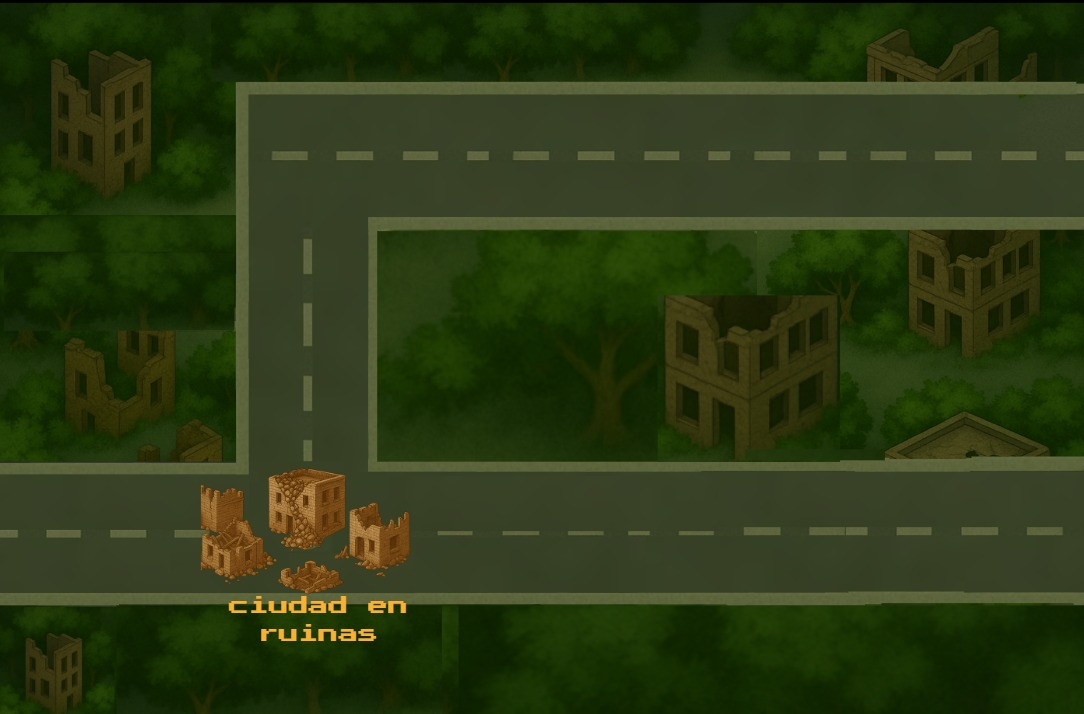
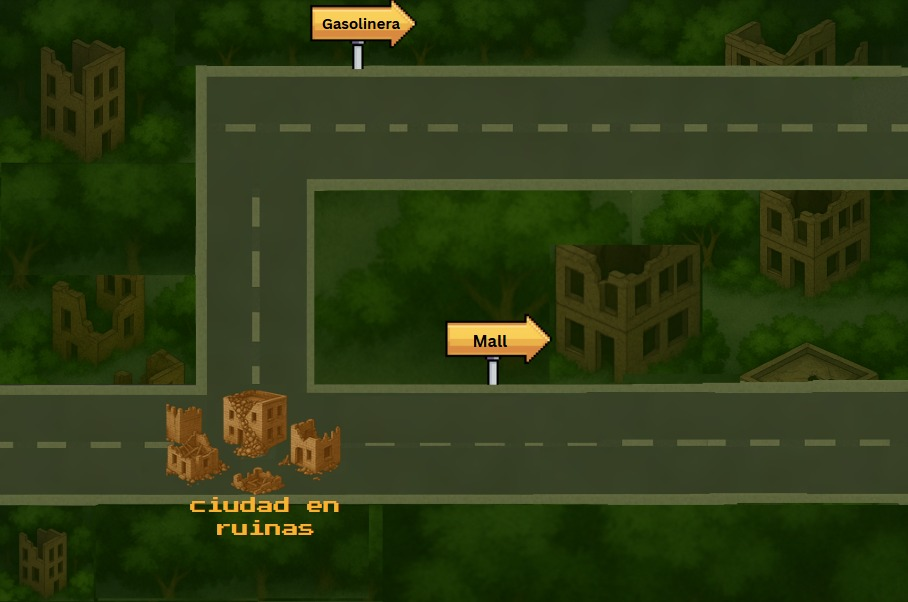
IMAGENES CAMBIADAS, Y FALTA AGREGAR LOS CAMBIOS DE RUTAS

diff --git a/escenabase.cpp b/escenabase.cpp
@@ -13,6 +13,27 @@ EscenaBase::EscenaBase(QWidget* parent)
 
     inventarioWidget=new InventarioWidget(Inventario::getInstance());
 
+    //barra de vida contenedor
+    barraVidaLabel = new QLabel(this);
+    barraVidaLabel->setStyleSheet("background-color: #333333; border: 2px solid black; border-radius: 5px; padding: 0px;");
+    barraVidaLabel->setGeometry(10, 90, 200, 30);
+    barraVidaLabel->show();
+
+    // 2⃣ Barra rellena (acortable)
+    barraVidaInterna = new QWidget(barraVidaLabel);
+    barraVidaInterna->setStyleSheet("background-color: green; border-radius: 3px;");
+    barraVidaInterna->setGeometry(0, 0, 200, 30);
+    barraVidaInterna->show();
+
+    // 3⃣ Texto encima
+    barraVidaTexto = new QLabel(barraVidaLabel);
+    barraVidaTexto->setAlignment(Qt::AlignCenter);
+    barraVidaTexto->setStyleSheet("color: white; font-weight: bold; font-size: 14px; background: transparent;");
+    barraVidaTexto->setGeometry(0, 0, 200, 30);
+    barraVidaTexto->show();
+    ActualizarBarraVida();
+    barraVidaLabel->raise();
+
 }
 
 EscenaBase::EscenaBase(personaje *jugadorExistente, QWidget *parent):QWidget(parent),
@@ -25,6 +46,28 @@ EscenaBase::EscenaBase(personaje *jugadorExistente, QWidget *parent):QWidget(par
 {
 
     inventarioWidget=new InventarioWidget(Inventario::getInstance());
+    //barra de vida contenedor
+    barraVidaLabel = new QLabel(this);
+    barraVidaLabel->setStyleSheet("background-color: #333333; border: 2px solid black; border-radius: 5px; padding: 0px;");
+    barraVidaLabel->setGeometry(10, 90, 200, 30);
+    barraVidaLabel->show();
+
+    // 2⃣ Barra rellena (acortable)
+    barraVidaInterna = new QWidget(barraVidaLabel);
+    barraVidaInterna->setStyleSheet("background-color: green; border-radius: 3px;");
+    barraVidaInterna->setGeometry(0, 0, 200, 30);
+    barraVidaInterna->show();
+
+    // 3⃣ Texto encima
+    barraVidaTexto = new QLabel(barraVidaLabel);
+    barraVidaTexto->setAlignment(Qt::AlignCenter);
+    barraVidaTexto->setStyleSheet("color: white; font-weight: bold; font-size: 14px; background: transparent;");
+    barraVidaTexto->setGeometry(0, 0, 200, 30);
+    barraVidaTexto->show();
+
+    ActualizarBarraVida();
+    barraVidaLabel->raise();
+
 
 }
 
@@ -92,6 +135,7 @@ void EscenaBase::Movimientos() {
             jugador->DetenerAnimacion();
             jugador->SetAnimacion(":/imagenes/assets/protagonista/Idle.png", 7);
         }
+        ActualizarBarraVida();
         onMovimientoUpdate();
     });
 
@@ -188,5 +232,86 @@ void EscenaBase::ResetearMovimiento()
         jugador->DetenerAnimacion();
         jugador->SetAnimacion(":/imagenes/assets/protagonista/Idle.png",7);
     }
+
+    ActualizarBarraVida();
+}
+
+void EscenaBase::ActualizarBarraVida()
+{
+
+    if(!jugador)return;
+
+    int vidaActual=jugador->getVidas();
+    int vidaMaxima=30;//valor maximo de vida
+
+    //con estas condicionales se asegura los limites
+    if(vidaActual>vidaMaxima)vidaActual=vidaMaxima;
+    if(vidaActual<0)vidaActual=0;
+
+    //aqui se calcula el porcentaje
+    float porcentaje=static_cast<float>(vidaActual)/vidaMaxima;
+    int anchoTotal=barraVidaLabel->contentsRect().width();
+    int altoTotal=barraVidaLabel->contentsRect().height();
+
+    int anchoBarra=static_cast<int>(porcentaje*anchoTotal);
+
+    QString colorBarra;
+    if(vidaActual>=18)
+    {
+
+        colorBarra="green";
+
+    }else if(vidaActual>=13){
+
+        colorBarra="orange";
+
+    }else{
+
+        colorBarra="red";
+
+    }
+
+    barraVidaInterna->setStyleSheet(QString("background-color: %1; border-radius: 3px;").arg(colorBarra));
+    barraVidaInterna->setGeometry(0,0,anchoBarra,altoTotal);
+
+
+    // // Estilo de la barra
+    // barraVidaLabel->setStyleSheet(QString(
+    //                                   "background-color: %1; "
+    //                                   "color: white; "
+    //                                   "font-weight: bold; "
+    //                                   "font-size: 14px; "
+    //                                   "padding: 5px; "
+    //                                   "border: 2px solid black; "
+    //                                   "border-radius: 5px; "
+    //                                   "text-align: center;")
+    //                                   .arg(colorBarra));
+
+
+    //aqui se hace el texto de la barra
+    QString texto = QString("VIDA: %1 / %2").arg(vidaActual).arg(vidaMaxima);
+    barraVidaTexto->setText(texto);
+
+    barraVidaLabel->raise();
+
+    //CON ESTO SE CURA 5 DE VIDA
+    // int nuevaVida = jugador->getVidas() + 5;
+    // if (nuevaVida > 30) nuevaVida = 30;
+    // jugador->setVidas(nuevaVida);
+    // actualizarBarraVida();
+
+
+    //SE CURA 10 DE VIDA
+    // int nuevaVida = jugador->getVidas() + 10;
+    // if (nuevaVida > 30) nuevaVida = 30;
+    // jugador->setVidas(nuevaVida);
+    // actualizarBarraVida();
+
+
+    //LE RESTAN 7 DE VIDA
+    // int nuevaVida = jugador->getVidas() - 7;
+    // if (nuevaVida < 0) nuevaVida = 0;
+    // jugador->setVidas(nuevaVida);
+    // actualizarBarraVida();
 
 }

diff --git a/caminos.cpp b/caminos.cpp
@@ -65,6 +65,10 @@ void Caminos::configurarObstaculos()
        obstaculos.append(QRect(430, 220, 400, 170)); //PARTE MEDIA
        obstaculos.append(QRect(18, 600, 1000, 30)); //PARTE INFERIOR
 
+    }else if(rutaActual==3){
+
+        obstaculos.clear();//AQUI AGREGAR LOS OBSTACULOS DE LA RUTA 3
+
     }
 }
 
@@ -88,29 +92,46 @@ void Caminos::posicionarJugadorEnCalleRuta2()
 
 }
 
+void Caminos::posicionarJugadorEnCalleRuta3()
+{
+
+    int posX=35;
+    int posY=290;
+
+    jugador->move(posX,posY);
+
+}
+
 void Caminos::cambiarRuta(int nuevaRuta)
 {
     rutaActual = nuevaRuta;
 
     QString rutaImagen;
 
-    if (rutaActual == 1)
+    if(rutaActual==1)
     {
-        rutaImagen = ":/imagenes/assets/mapas/RUTA_1.jpg";
-    }
-    else if (rutaActual == 2)
-    {
-        rutaImagen = ":/imagenes/assets/mapas/RUTA_2.jpg";
+        rutaImagen=":/imagenes/assets/mapas/RUTA_1.jpg";
+
+    }else if(rutaActual==2){
+
+        rutaImagen=":/imagenes/assets/mapas/RUTA_2.jpg";
+
+    }else if(rutaActual==3){
+
+        rutaImagen=":/imagenes/assets/mapas/RUTA_3.jpg";
+
     }
 
     QPixmap fondoPixmap(rutaImagen);
-    if (fondoPixmap.isNull())
+    if(fondoPixmap.isNull())
     {
+
         qDebug() << "Error al cargar la imagen de la ruta:" << rutaImagen;
-    }
-    else
-    {
+
+    }else{
+
         fondoLabel->setPixmap(fondoPixmap.scaled(this->size(), Qt::KeepAspectRatioByExpanding));
+
     }
 
     if(jugador)
@@ -121,13 +142,12 @@ void Caminos::cambiarRuta(int nuevaRuta)
 
     }
 
-    //aqui llamaar funcion de configurar otro obstaculo
+
 }
 
 void Caminos::onMovimientoUpdate()
 {
     if (!jugador) return;
-
     QRect rectJugador = jugador->geometry();
 
     // aqui Cambiar a RUTA_2 cuando el jugador llegue al final de la carretera de arriba (borde derecho)
@@ -153,18 +173,24 @@ void Caminos::onMovimientoUpdate()
         return;
     }
 
-    //aqui ingresa a Gasolinera solo para que existan dos mapas para el avance
-    /*
-    if (rutaActual == 2 && rectJugador.right() >= width() - 50 && rectJugador.top() <= 200)
+    //CAMBIAR A RUTA_3 cuando el jugador toque borde izquierdo de RUTA_2
+                            //borde derecho             top exacto              buttom exacto
+    if(rutaActual==2&&rectJugador.right()>=width()-30&&rectJugador.top()>=46&&rectJugador.bottom()<=173)
     {
-        qDebug() << "Cambiando de nivel...";
-        jugador->move(100, height() - jugador->height() - 120);
-        Gasolinera* gaso = new Gasolinera();
-        gaso->show();
-        this->close();
+
+        obstaculos.clear();
+        cambiarRuta(3);
+        configurarObstaculos();
+
+        posicionarJugadorEnCalleRuta3();
+
+        qDebug() << "Cambiando a RUTA_3...";
 
         return;
-    }*/
+
+    }
+
+
 
     //CON ESTO REGRESA AL LOBBY (zona de la puerta en RUTA_1)
     if (rutaActual == 1 && !regresandoAlLobby)
@@ -207,6 +233,26 @@ void Caminos::onMovimientoUpdate()
 
     if (rutaActual == 2)
     {
+        //DEBUG PARA SABER COLOCAR EL CAMBIO DE RUTA
+        qDebug() << "Jugador en RUTA_2: LEFT =" << rectJugador.left()
+        << " TOP =" << rectJugador.top()
+        << " RIGHT =" << rectJugador.right()
+        << " BOTTOM =" << rectJugador.bottom();
+
+        // Intento de cambio a RUTA_3 (ajusta esta zona cuando veas las coords)
+        if (rectJugador.left() <= 30 && rectJugador.top() >= 50 && rectJugador.bottom() <= 150)
+        {
+            obstaculos.clear();
+            cambiarRuta(3);
+            configurarObstaculos();
+
+            posicionarJugadorEnCalleRuta3();
+
+            qDebug() << "Cambiando a RUTA_3...";
+
+            return;
+        }
+
         if (!labelPresionarT->isVisible())
         {
             // Lo coloco fijo debajo del texto

diff --git a/lobby.cpp b/lobby.cpp
@@ -44,6 +44,8 @@ lobby::lobby(personaje* jugadorExistente, QWidget* parent)
     };
     actualizarUI();
 
+    barraVidaLabel->raise();
+
     // Label para el hint de interaccion con puerta
     labelPresionarR = new QLabel("PRESIONE R PARA EXPLORAR", this);
     labelPresionarR->setStyleSheet("background: rgba(0,0,0,180); color: white; padding: 5px; border-radius: 5px;");
@@ -118,6 +120,9 @@ void lobby::configurarObstaculos()
 
 void lobby::onMovimientoUpdate()
 {
+
+    ActualizarBarraVida();
+
     QRect rectJugador = jugador->geometry();
     bool hayNpcCerca = false;
     npcCercano = nullptr;

diff --git a/mapa.cpp b/mapa.cpp
@@ -17,7 +17,7 @@ Mapa::Mapa(QWidget* parent) : QWidget(parent), jugador(nullptr) {
     this->setWindowTitle("Mapa - Last hope");
 
     // Cargar imagen de fondo
-    QPixmap fondoPixmap(":/imagenes/assets/mapas/Mapa.jpeg");
+    QPixmap fondoPixmap(":/imagenes/assets/mapas/Mapa.jpg");
     if(fondoPixmap.isNull()) {
         qDebug() << "Error al cargar imagen desde assets/mapas/Mapa.png";
     } else {

diff --git a/escenabase.h b/escenabase.h
@@ -33,6 +33,12 @@ protected:
     virtual void configurarNPCs() {}
     virtual void onMovimientoUpdate() {}
 
+    //aqui para la barra de vida
+    QLabel*barraVidaLabel;
+    QWidget* barraVidaInterna;
+    QLabel* barraVidaTexto;
+    void ActualizarBarraVida();
+
 public:
     explicit EscenaBase(QWidget* parent = nullptr);
     explicit EscenaBase(personaje*jugador,QWidget*parent=nullptr);

diff --git a/personaje.cpp b/personaje.cpp
@@ -2,7 +2,7 @@
 #include<QDebug>
 
 personaje::personaje(QWidget*parent):QLabel(parent),frameActual(0),velocidadMovimiento(10),miradoDerecha(true),ultimaDireccionDerecha(true),
-    vida(3),energia(10),municiones(20)
+    vida(30),energia(10),municiones(20)
 {
 
     this->resize(128,128);//aqui tamanio del frame

diff --git a/caminos.h b/caminos.h
@@ -23,6 +23,7 @@ private:
 
     void posicionarJugadorEnCalleRuta1();
     void posicionarJugadorEnCalleRuta2();
+    void posicionarJugadorEnCalleRuta3();
 
 protected:
 
